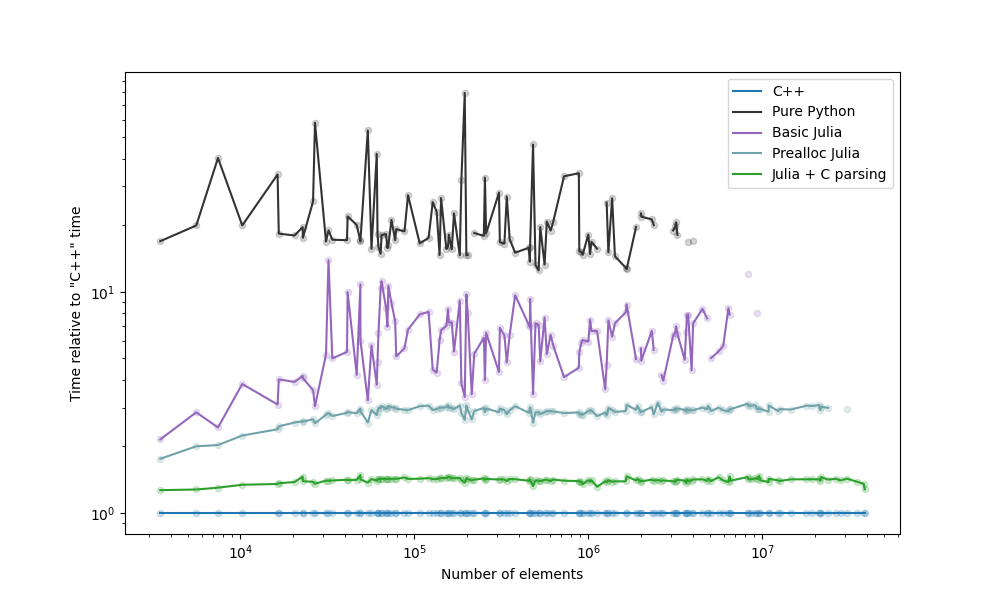
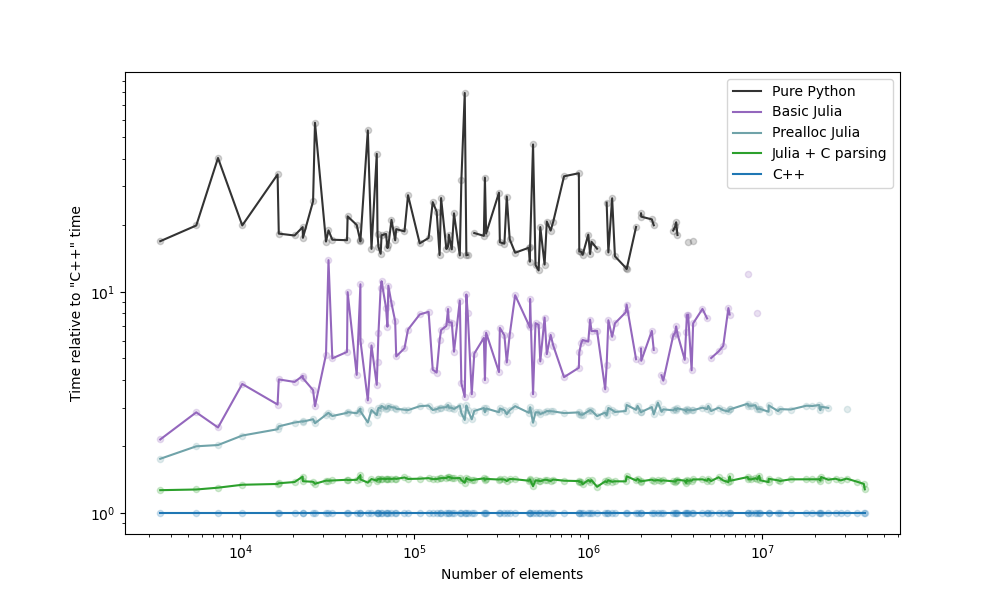
Add plot of gain over effort

Changed region(s): [[0.713, 0.12, 0.899, 0.3], [0.062, 0.36, 0.093, 0.39]]

diff --git a/src/run_analysis.py b/src/run_analysis.py
@@ -31,22 +31,23 @@ plots_langs_per_element(
 plots_langs_per_element(df_complete, subset=['python', 'cpp'], suffix='original')
 plots_langs_per_element(df_rel_cpp, subset=['python', 'cpp'], suffix='original-relative', yscale=False, ylabel='Time relative to "C++" time')
 
-subset_count = 1
-subset = ['cpp', 'python']
-for key in ['julia_basic', 'julia_prealloc', 'julia_c', 'julia_opt']:
-    subset.append(key)
+def subset_plot(subset, count):
     plots_langs_per_element(
         df_complete,
         subset=subset,
-        suffix='subset-{}'.format(subset_count),
+        suffix='subset-{}'.format(count),
     )
     plots_langs_per_element(
         df_rel_cpp,
         subset=subset,
-        suffix='subset-{}-relative'.format(subset_count),
+        suffix='subset-{}-relative'.format(count),
         ylabel='Time relative to "C++" time',
     )
-    subset_count += 1
+subset_plot(['python', 'cpp'], 0)
+subset_plot(['python', 'julia_basic', 'cpp'], 1)
+subset_plot(['python', 'julia_basic', 'julia_prealloc', 'cpp'], 2)
+subset_plot(['python', 'julia_basic', 'julia_prealloc', 'julia_c', 'cpp'], 3)
+subset_plot(['python', 'julia_basic', 'julia_prealloc', 'julia_c', 'cpp', 'julia_opt'], 4)
 
 plots_langs_per_element(
     df_rel_opt,

diff --git a/src/gain_over_effort.py b/src/gain_over_effort.py
@@ -1,0 +1,23 @@
+from analysis import *
+import pandas as pd
+import matplotlib.pyplot as plt
+
+df, df_read, df_complete, df_rel_cpp, df_rel_opt = read_experiments_data('out/experiments.csv')
+labels = ['python', 'julia_basic', 'julia_prealloc', 'julia_c', 'cpp', 'julia_opt']
+gain = [
+    (df_complete['python'] / df_complete[x]).mean()
+    for x in labels
+]
+print(gain)
+
+x = [0, 0.2, 0.4, 0.8, 1, 1]
+with plt.xkcd():
+    plt.figure(figsize=[8, 6])
+    for i in range(0, len(x)):
+        plt.scatter(x[i], gain[i], c=spc_args[labels[i]]["color"], label=spc_args[labels[i]]["label"])
+    plt.xticks([0, 1], ['Small','High'])
+    plt.yticks([1, 10, 20, 30, 40])
+    plt.xlabel('Effort')
+    plt.ylabel('Average speedup over pure Python')
+    plt.legend()
+    plt.savefig("out/plots/gain-over-effort.png")

diff --git a/src/main.py b/src/main.py
@@ -1,2 +1,3 @@
 import run_experiments
 import run_analysis
+import gain_over_effort
